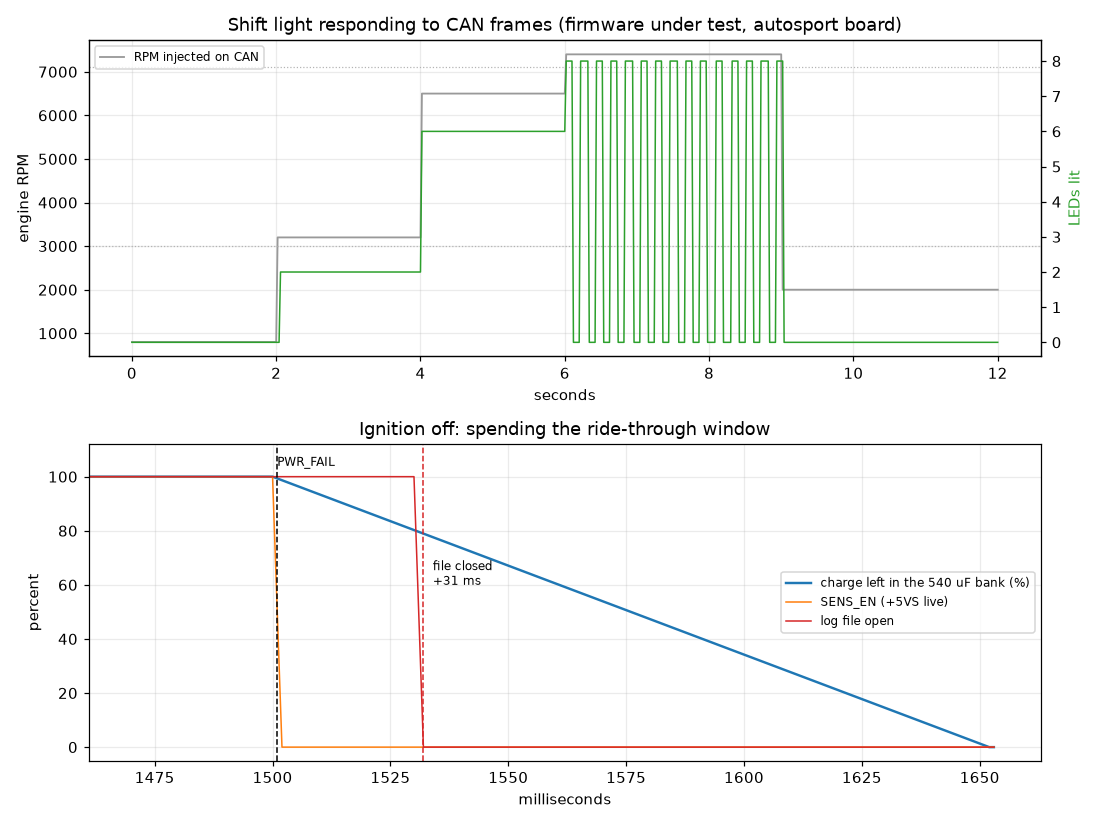
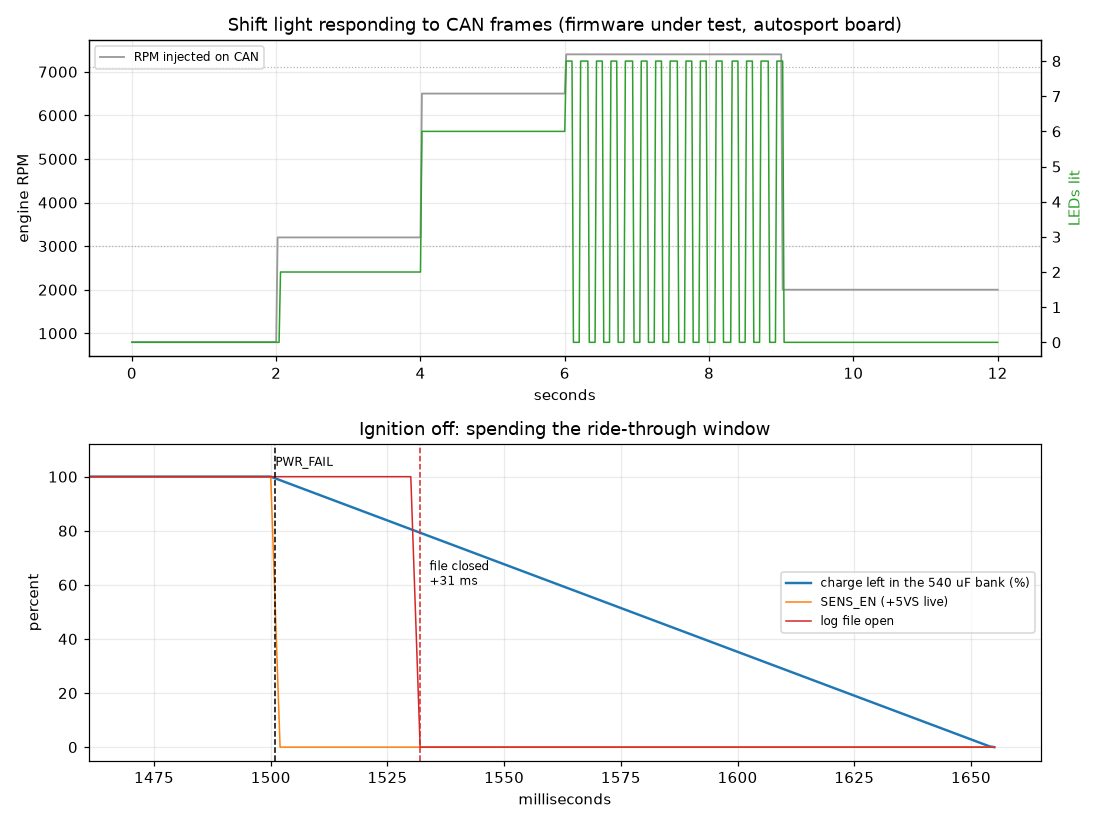
Replace the scaled ride-through figures with measured ngspice results
ngspice is installed now, so gen/simulate.py ran against the 760 uF bank
and the estimates from the previous commit are gone. They were close: 154.4
/ 74.7 ms measured against 152 / 75 scaled, and 0.274 A2s against 0.28.
Inrush measures 44.0 A peak and 11.7 mJ in Q1's body diode over 0.80 ms,
leaving ~3.6x margin on the 2 A nano fuse. Crank still rides through with
exactly one PWR_FAIL edge.

Two things the re-run exposed.

The Monte Carlo study was still modelling 540 uF. The earlier bank change
updated the ngspice decks but missed the closed-form expression in the
tolerance study, so that one study was quietly describing the old board.
Now 760 uF, and its answer moves from 55/36 ms to 78/51 ms.

More importantly, that study and study 4 disagree by 3x and the labels did
not say why. Study 4 opens the ignition on a healthy 13.5 V battery, and
+VBAT starts its coast from there because Q1 isolates it from the harness
-- which is the whole point of sensing ahead of the diode. The Monte Carlo
assumes the harness is already down at the 10.7 V trip point when the key
turns, a flat battery, and energy goes as V^2, so that alone is 1.9x less
usable charge before tolerances. Both numbers are right; they bound
opposite ends of the same event. The study now says so in its label, and
the README carries both with the note that firmware has to fit inside the
51 ms one, not the 154 ms one.

The fwsim board model takes the measured 154.4 / 74.7 and says explicitly
[…]

diff --git a/gen/simulate.py b/gen/simulate.py
@@ -1101,14 +1101,23 @@ def sim_tolerance(plots):
     # Ride-through window at the bad corner: electrolytics are -20/+20%,
     # the load estimate is soft, and the window must still cover a flush.
     c_bank = (100e-6 * (1 + rng.uniform(-0.2, 0.2, N))
-              + 2 * 220e-6 * (1 + rng.uniform(-0.2, 0.2, N)))
+              + 2 * 330e-6 * (1 + rng.uniform(-0.2, 0.2, N)))
     p_load = 0.35 * (1 + rng.uniform(-0.2, 0.4, N))
+    # Deliberately the flat-battery case, and NOT the same question study 4
+    # answers. Study 4 opens the ignition on a healthy 13.5 V battery, and
+    # +VBAT starts its coast from there -- Q1 isolates it from the harness, so
+    # the warning arrives before any stored energy has been spent. Here the
+    # harness is already down at the trip point when the key turns, so the
+    # bank starts at 10.7 V instead of 13.5 V. Energy goes as V^2, so that
+    # alone is 1.9x less usable charge before the tolerance spread is applied.
+    # Both numbers are real; they bound opposite ends of the same event.
     v0 = 11.0 - 0.3                       # detect, less hysteresis band
     window = c_bank * (v0 ** 2 - 6.0 ** 2) / (2 * p_load)
     lo = float(np.percentile(window, 0.1))
-    print("    ride-through     : %4.0f ms median, %4.0f ms at the 0.1%% "
+    print("    ride-through, flat battery (bank starts at %.1f V, not 13.5):\n"
+          "                     : %4.0f ms median, %4.0f ms at the 0.1%% "
           "corner (caps -20%%, load +40%%)"
-          % (float(np.median(window)) * 1e3, lo * 1e3))
+          % (v0, float(np.median(window)) * 1e3, lo * 1e3))
     # The gate is the healthy-card flush (~10-30 ms). Covering a stalled
     # card was never in reach even at nominal (55 ms median) -- that risk
     # class is handled by firmware flushing often, per the README.

diff --git a/fwsim/shim/sim.cpp b/fwsim/shim/sim.cpp
@@ -102,13 +102,13 @@ static Board make_autosport() {
   b.has_pwr_fail = true;
   b.pwr_fail_trip = 11.0;        // README section 2
   b.pwr_fail_hyst = 0.3;
-  // Scaled from the 540 uF ngspice result (108 / 53 ms) for the 760 uF bank
-  // that replaced it: the load is constant-power over a fixed voltage window,
-  // so the hold-up time is linear in C. Re-run gen/simulate.py to replace
-  // these with measured values -- ngspice was not installed when the bank
-  // changed, so nothing here has been through the circuit simulator yet.
-  b.ridethru_shed_ms = 152.0;    // was 108 at 540 uF
-  b.ridethru_noshed_ms = 75.0;   // was 53 at 540 uF
+  // Measured by gen/simulate.py study 4 on the 760 uF bank, ignition opened
+  // on a healthy 13.5 V battery. Note this is the *nominal* window: study 8's
+  // Monte Carlo runs the same event with the harness already down at the trip
+  // point (a flat battery) and worst-case tolerances, and gets 51 ms. Anything
+  // this simulator concludes about flush margin is a nominal-case claim.
+  b.ridethru_shed_ms = 154.4;    // sim/ridethru_shed.dat
+  b.ridethru_noshed_ms = 74.7;   // sim/ridethru_noshed.dat
   return b;
 }
 

diff --git a/README.md b/README.md
@@ -64,7 +64,7 @@ be a small prototype run.**
 | | |
 |---|---|
 | MCU | ESP32-S3-WROOM-1-N16R8 (16 MB flash, 8 MB octal PSRAM) |
-| Supply input | 6–36 V continuous, reverse-protected to −65 V, transients clamped at 64.5 V, ~152 ms power-cut ride-through |
+| Supply input | 6–36 V continuous, reverse-protected to −65 V, transients clamped at 64.5 V, 154 ms power-cut ride-through (51 ms worst-case on a flat battery) |
 | CAN | 1× CAN 2.0B, TJA1051T/3, ESP32-S3 TWAI controller, split termination, **off by default** |
 | Storage | microSD, 4-bit SDMMC, switchable card supply |
 | Analog in | 4 channels, solder-jumper divider, **0–5 V by default** (0–3.3 V / 0–16 V by jumper) + optional pull-up bias, shared by the ESP32 ADC and a 16-bit ADS1115 |
@@ -172,12 +172,16 @@ every single drive. The chain that makes that survivable:
    reset — the rail comes up only when firmware asks.
 
 Simulated end to end (§10, `sim/ridethru.png`): detection in under 1 ms, and
-from `PWR_FAIL` to the converters dropping out is **~152 ms with the sensor
-rail shed, ~75 ms without**. Those two are scaled from the measured 540 µF
-result (108 / 53 ms) for the 760 µF bank that replaced it — hold-up is linear
-in C for a constant-power load over a fixed window. **Re-run
-`gen/simulate.py` to replace them with measured values**; ngspice was not
-installed when the bank changed.
+from `PWR_FAIL` to the converters dropping out is **154 ms with the sensor
+rail shed, 75 ms without** — both measured on the 760 µF bank.
+
+That is the *healthy-battery* case: the ignition opens at 13.5 V and `+VBAT`
+starts its coast from there, because `Q1` isolates it from the harness. Open
+the ignition on a battery already down at the trip point and the bank starts
+at 10.7 V instead — energy goes as V², so that alone is 1.9× less charge. The
+Monte Carlo puts that flat-battery corner at **78 ms median, 51 ms at 0.1 %**
+with worst-case tolerances (§10). Both are real; they bound opposite ends of
+the same event, and firmware should be sized against the 51 ms.
 
 **Firmware contract:** on `PWR_FAIL` rising — drop `SENS_EN`, stop sampling,
 flush and close the file, then idle. Do not start a new write while
@@ -187,7 +191,9 @@ firmware's job.
 The firmware that spends it now exists and has been run against that window
 (§10, *Firmware in the loop*). Measured: the file is closed **31 ms** after
 `PWR_FAIL`, leaving 121 ms of the bank unspent, and the card may take up to a
-**~130 ms** flush before the close no longer fits. That is roughly seven times a
+**~130 ms** flush before the close no longer fits — though that, too, is
+against the nominal window; on the flat-battery corner the budget is 51 ms and
+only a healthy card fits. That is roughly seven times a
 healthy card's latency but it is a limit, not unlimited protection — a card
 that stalls for longer than that still loses the file.
 
@@ -799,9 +805,9 @@ and the ferrite swallow them and the TVS absorbs a measured 0 J.
 **Second-round studies** (also in `gen/simulate.py`):
 
 - **Battery-connect inrush**: the 760 µF bank charges through Q1's body diode
-  before the LM74700 wakes — 42 A peak, and 0.28 A²s of surge (0.20 A²s
-  measured at 540 µF, scaled: the fuse's I²t burden is linear in C, which is
-  the price of the bigger bank). A 2 A nano fuse is specified around 1 A²s; verify the exact
+  before the LM74700 wakes — **44.0 A peak, 0.274 A²s** of surge and 11.7 mJ
+  in the diode over 0.80 ms. The fuse's I²t burden is linear in C, so this is
+  the price of the bigger bank: it was 0.20 A²s at 540 µF. A 2 A nano fuse is specified around 1 A²s; verify the exact
   figure on the datasheet at order, but the margin is ~3.6×.
 - **Engine crank (ISO 16750-2 profile)**: warm (6.0 V dip) and cold (4.5 V
   dip, 15 ms) both ride through — the bank carries the bottom of the dip and
@@ -812,6 +818,10 @@ and the ferrite swallow them and the TVS absorbs a measured 0 J.
   10.72–11.29 V at 99.8 %; the 0.1 % analog divider stack holds gain error
   to ±0.08 %; +5 V spans 4.85–5.15 V and +3V3 spans 3.19–3.38 V worst-case;
   the battery monitor's 1 % divider is ±1.9 % — calibrate it in firmware.
+  Ride-through on a **flat battery** (bank starting at the 10.7 V trip point
+  rather than 13.5 V) is 78 ms median and **51 ms at the 0.1 % corner** with
+  caps −20 % and load +40 %. That is the number firmware has to fit inside,
+  not the 154 ms of §2 — which assumes a healthy battery.
 
 **What it does not cover.** The LM5164's control loop. It is a constant-on-time
 part with an encrypted TI model, so the buck deck drives the power stage at an
